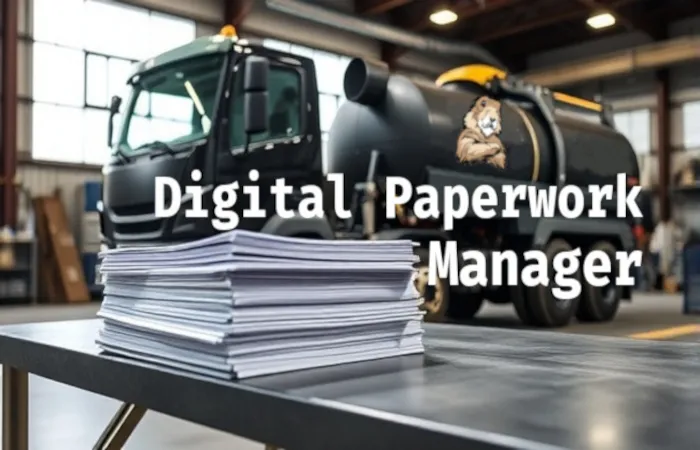
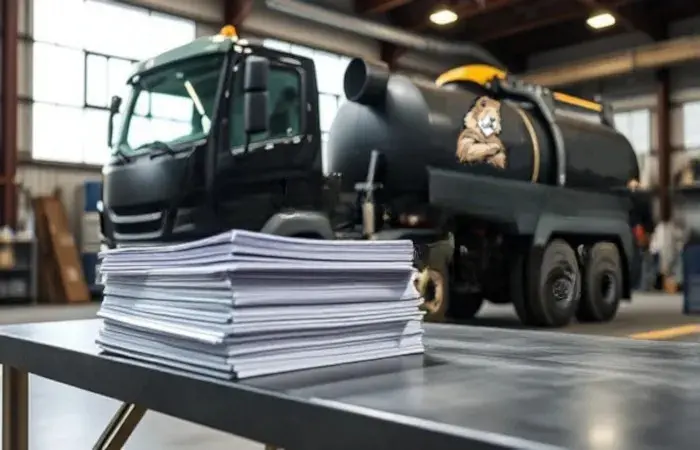
updated landing page

Changed region(s): [[0.21, 0.3733, 0.93, 0.6844]]

diff --git a/index.html b/index.html
@@ -3,7 +3,7 @@
 <head>
     <meta charset="UTF-8">
     <meta name="viewport" content="width=device-width, initial-scale=1.0">
-    <title>noflcl ☴ github</title>
+    <title>noflcl ☶ github</title>
 	<link rel="icon" type="image/x-icon" href="assets/img/favicon.ico">
     <link rel="stylesheet" href="assets/css/styles.css">
 	<script src="assets/js/main.js"></script>
@@ -37,27 +37,36 @@
 			<a style="text-decoration: overline;" href="https://github.com/noflcl">GitHub</a>
 		</p>
 		<hr>
+		<div class="gallery">
+			<!-- Test Gallery -->
+			<div class="gallery-large item num1">
+				<div class="banner">
+					<h3 class="title">Digital Paperwork Manager</h3>
+				</div>
+				<div class="deets">
+					<p>Allow employees to file critical safety paperwork for <a href="https://cfcsa.ca/cor.php">COR</a> safety compliance.
+						Accessible offline and able to recall past documents for remote workers in poor reception areas.</p>
+				</div>
 
-		<div class="work-gallery">
-			<div class="flex">
-				<div class="gallery-large work-item num1">
-					<div class="work-deets">
-						i
-					</div>
-				</div>
-				<div class="gallery-small work-item num2">
-					<div class="work-deets">
-						will
-					</div>
-				</div>
 			</div>
 
-			<div class="flex">
-				<div class="gallery-small work-item num3">fill</div>
-				<div class="gallery-large work-item num4">soon</div>
+			<div class="gallery-small item num2">
+				<div class="banner">
+					<h3 class="title">10G Fiber</h3>
+				</div>
+				<div class="deets">
+					<p>Building out 10G fiber at the rack and two office spaces within the house. Intel X520-DA1 PCI-E nics, and a TP-Link JetStream TL-SX3008F 8-Port sfp+ 10G switch.</p>
+
+				</div>
 			</div>
+			<!-- <div class="gallery-large item num3">
+				☶
+			</div>
+			<div class="gallery-small item num4">
+				☱
+			</div> -->
+
 		</div>
-
 	</section>
 
 	<section class="who">
@@ -77,7 +86,7 @@
 			</li>
 			<li>
 				<h4>Skater</h4>
-				<p>To the core <span style="color: #BD93F9">☱</span> I bleed🩸 for this</p>
+				<p>To the core <span style="color: #BD93F9">☱</span> I bleed🩸for this</p>
 			</li>
 		</div>
 	</section>
@@ -103,8 +112,9 @@
 			<span style="color: #BD93F9">|</span> Maybe <a style="text-decoration: underline; text-underline-position: under;" href="https://mastodon.social/@noflcl">over here</a> on Mastadon
 			<span style="color: #BD93F9">|</span> Formally with <a style="text-decoration: overline;" href="https://www.linkedin.com/in/stephen-mcnamara-a94610335">Linkedin</a> I guess ¯\_(ツ)_/¯</p>
 		<hr>
+		<a id="anchor-contact"></a>
 	</section>
-	<a id="anchor-contact"></a>
+
 	<footer>
 		<div class="footer-social">
 			<ul>

diff --git a/assets/css/styles.css b/assets/css/styles.css
@@ -288,23 +288,31 @@ header nav li:last-child {
 	width: 100%;
 }
 
-.work-gallery {
+.gallery {
 	display: flex;
-	flex-direction: column;
+	flex-direction: row;
+	justify-content: space-evenly;
 	align-items: center;
 	text-align: center;
 	width: 100%
 }
 
-.work-gallery img {
-	margin: 0 3px 3px 0;
+.gallery .banner h3{
+	color: #fff;
+	background-color: #282a3681;
+	margin: 0;
+	padding: 5px;
 }
 
-.flex {
-	display: flex;
-	flex-direction: row;
-	min-height: 0;
-	max-width: 100%;
+.deets {
+	background-color: #282a3681;;
+	color: #fff;
+	font: 18px 'Open Sans', sans-serif;
+	flex-grow: 1;
+}
+
+.deets p {
+	text-align: left;
 }
 
 .gallery-small {
@@ -315,27 +323,25 @@ header nav li:last-child {
 	flex-basis: 60%;
 }
 
-.work-item {
+.item {
+	display: flex;
+	flex-direction: column;
 	margin: 10px;
-	width: 700px;
 	max-width: 100%;
-	height: 450px;
-	color: #000;
-	font: normal 150px sans-serif;
-	vertical-align: middle;
-	line-height: 450px;
+	width: 700px;
+	height: 400px;
 	background-position: center;
 	background-size: cover;
 }
 
 .num1 {
-	background-image: url("../img/papers-tag.webp");
 	background-color: #6272A4;
+	background-image: url("../img/papers-tag.webp");
 }
 
 .num2 {
-	background-image: url("../img/fiber-up.webp");
 	background-color: #BD93F9;
+	background-image: url("../img/fiber-up.webp");
 }
 
 .num3 {
@@ -346,34 +352,17 @@ header nav li:last-child {
 	background-color: #ffb86c;
 }
 
-.work-deets {
-	display: none;
-}
-
-@media (max-width: 1450px) {
-	.flex {
+@media (max-width: 750px){
+	.gallery{
 		flex-direction: column;
-	}
-}
-
-@media (max-width: 1450px) {
-
-	.gallery-large.work-item.num1,
-	.gallery-small.work-item.num2 {
 		flex-basis: auto;
 	}
 }
 
-@media (max-width: 750px){
+@media (max-width: 1300px){
 	.num1,
 	.num2 {
 		background-image: none;
-	}
-}
-
-@media (max-width: 750px){
-	.work-deets {
-		display: contents;
 	}
 }
 

diff --git a/assets/js/main.js b/assets/js/main.js
@@ -1,10 +1,7 @@
-$ = function(id) {
-    return document.getElementById(id);
-  }
+//   function overlayOn() {
+//     document.getElementById("overlay").style.display = "block";
+//   }
 
-  var show = function(id) {
-      $(id).style.display ='block';
-  }
-  var hide = function(id) {
-      $(id).style.display ='none';
-  }
+//   function overlayOff() {
+//     document.getElementById("overlay").style.display = "none";
+//   }
